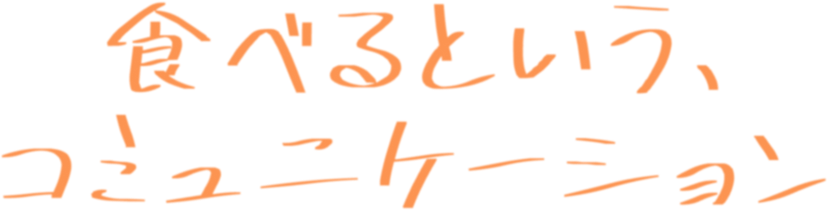
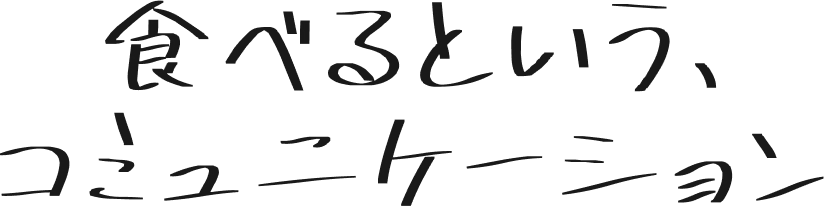
mv-copyを画像に差し替え

diff --git a/src/views/Top.vue b/src/views/Top.vue
@@ -5,7 +5,7 @@
       <div class="mv-container">
         <div class="mv">
           <img src="../assets/images/top/icon.png" alt="EATOP" class="mv-icon">
-          <h1 class="mv-copy">食べるという、<br>コミュニケーション</h1>
+          <img class="mv-copy" src="../assets/images/top/copy.png" alt="食べるというコミュニケーション">
           <h2 class="mv-text">「まち」の食育プロジェクト<br>EATOP</h2>
         </div>
       </div>
@@ -110,9 +110,7 @@ export default {
       height: 140px
       
     &-copy
-      font-family: '851MkPOP'
-      font-size: 60px
-      text-shadow: 1px 1px $white
+      height: 25%
       
     &-text
       color: $gray
